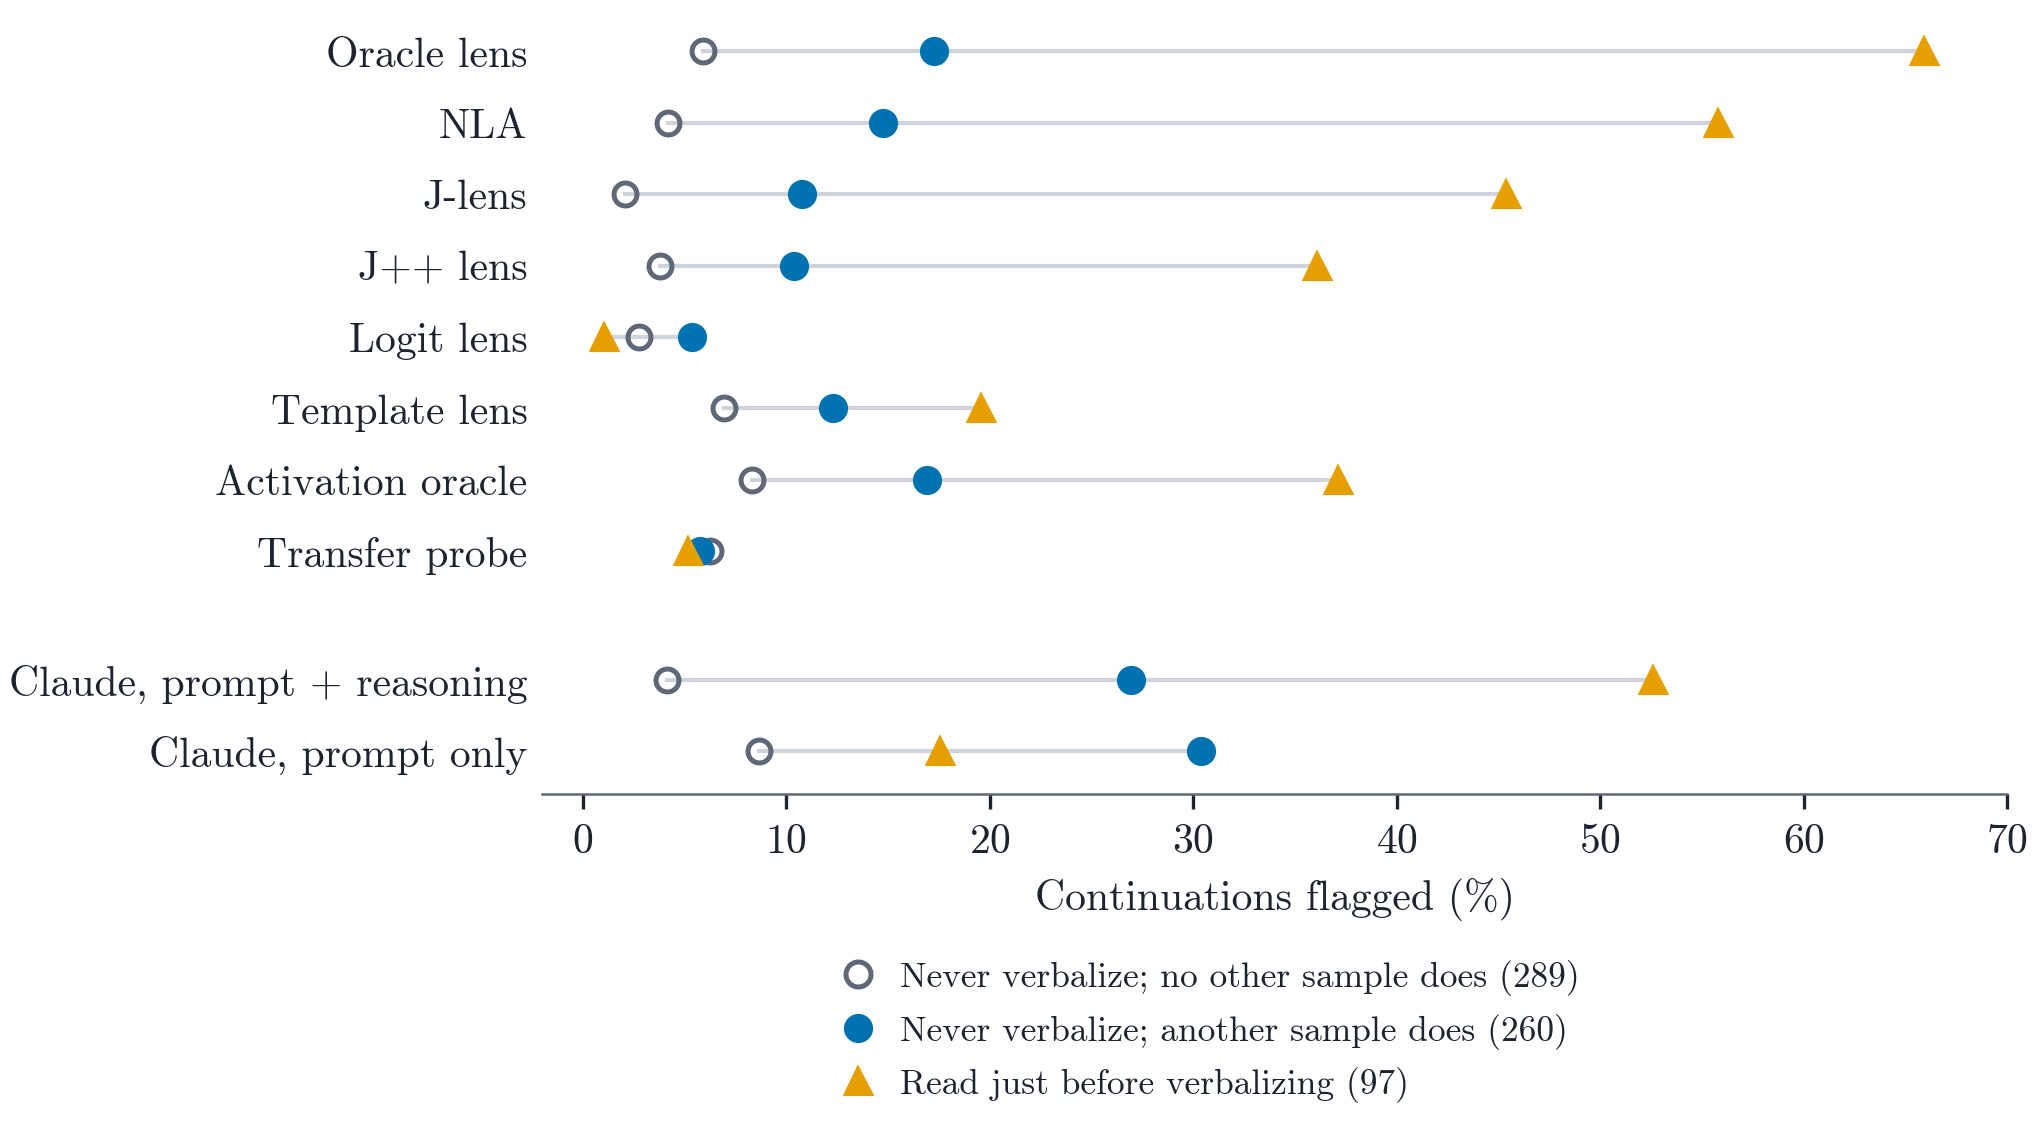
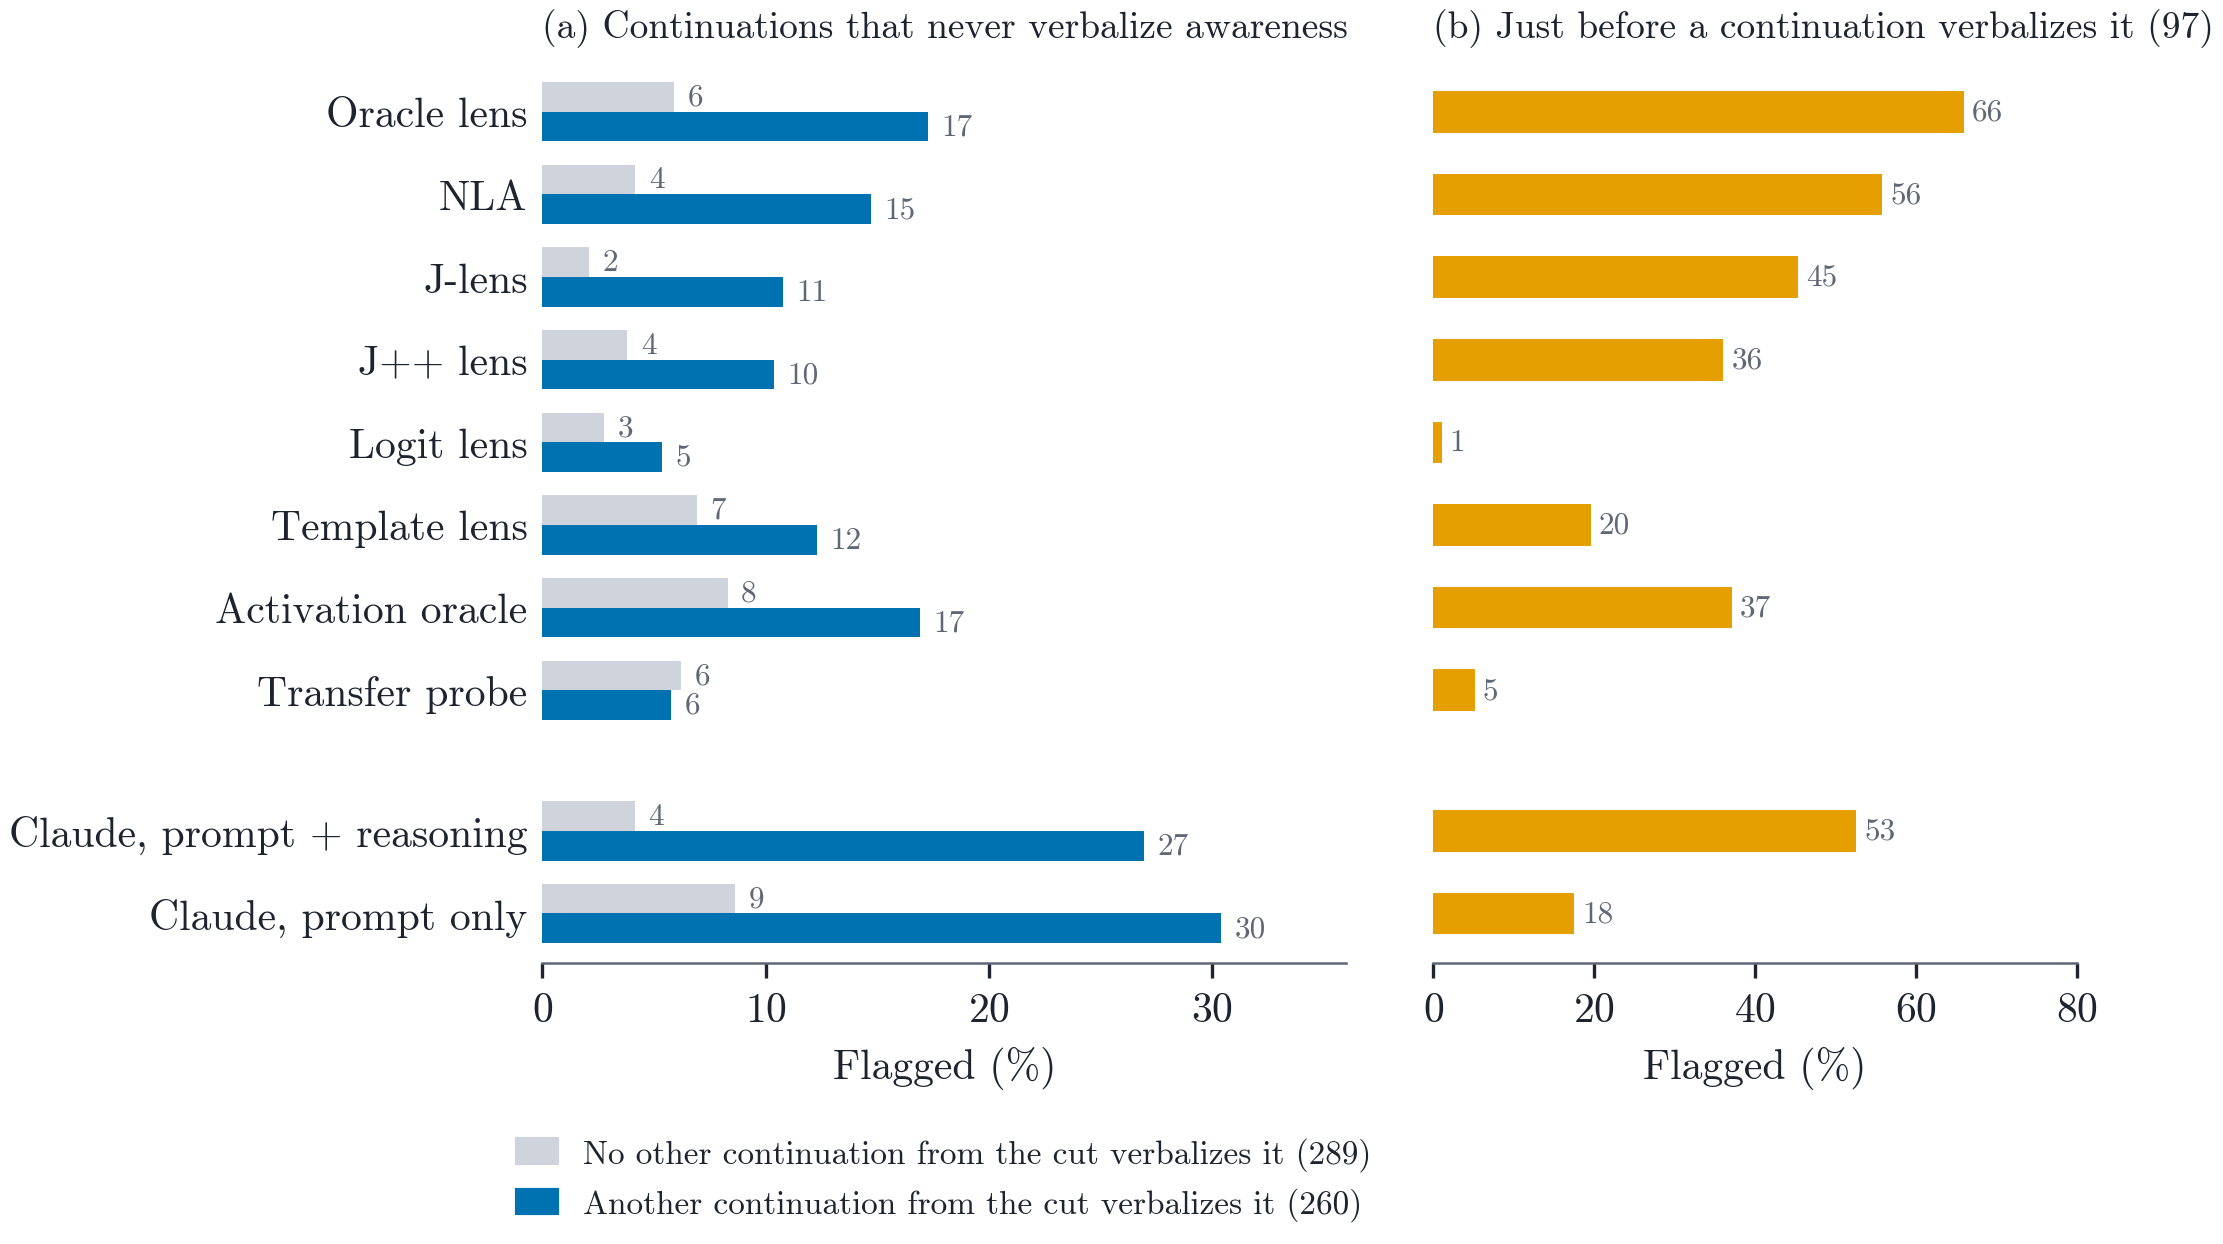
clearer per-reader flag figure

diff --git a/readers/analysis/fig_silent.py b/readers/analysis/fig_silent.py
@@ -23,25 +23,35 @@ def fig_eval(P, svg):
 ORDER = ['olens', 'nla', 'jlens', 'jpp', 'logit_lens', 'template_lens', 'ao', 'transfer_probe', 'llm_reader', 'prompt_only_llm']
 def fig_flags(P, svg):
     style(P, svg)
-    fig, ax = plt.subplots(figsize=(6.3, 3.4))
+    fig, axes = plt.subplots(1, 2, figsize=(6.6, 3.9), sharey=True, gridspec_kw={'width_ratios': [1.25, 1], 'wspace': 0.12})
     ys, y = [], 0
-    for i, k in enumerate(ORDER):
-        if k == 'llm_reader': y += 0.8
+    for k in ORDER:
+        if k == 'llm_reader': y += 0.7
         ys.append(-y); y += 1
-    F = D['flag_rate']
+    F = D['flag_rate']; h = 0.36
+    ax = axes[0]
     for k, yy in zip(ORDER, ys):
-        vals = [100 * F[k][g]['value'] for g in ('silent_q0', 'silent_q_pos', 'verbalizing_reference')]
-        ax.plot([min(vals), max(vals)], [yy, yy], color=P['rule'], lw=1.0, zorder=0)
-        ax.plot(vals[0], yy, 'o', ms=5.5, color=P['muted'], mfc='none', mew=1.2)
-        ax.plot(vals[1], yy, 'o', ms=6, color=P['c1'])
-        ax.plot(vals[2], yy, '^', ms=6, color=P['c2'])
-    ax.plot([], [], 'o', color=P['muted'], mfc='none', mew=1.2, label='Never verbalize; no other sample does (289)')
-    ax.plot([], [], 'o', color=P['c1'], label='Never verbalize; another sample does (260)')
-    ax.plot([], [], '^', color=P['c2'], label='Read just before verbalizing (97)')
-    ax.legend(frameon=False, fontsize=8.5, loc='upper center', bbox_to_anchor=(0.45, -0.17), ncol=1, handletextpad=0.2)
-    ax.set_yticks(ys); ax.set_yticklabels([NAME[k] for k in ORDER]); ax.tick_params(axis='y', length=0)
-    ax.spines['left'].set_visible(False); ax.set_xlim(-2, 70); ax.set_xlabel('Continuations flagged (%)')
-    ax.set_ylim(ys[-1] - 0.6, ys[0] + 0.6)
+        a, b = 100 * F[k]['silent_q0']['value'], 100 * F[k]['silent_q_pos']['value']
+        ax.barh(yy + h / 2, a, height=h, color=P['rule'], edgecolor='none')
+        ax.barh(yy - h / 2, b, height=h, color=P['c1'], edgecolor='none')
+        ax.text(b + 0.6, yy - h / 2, f"{b:.0f}", va='center', fontsize=7.5, color=P['muted'])
+        ax.text(a + 0.6, yy + h / 2, f"{a:.0f}", va='center', fontsize=7.5, color=P['muted'])
+    ax.set_xlim(0, 36); ax.set_xlabel('Flagged (%)')
+    ax.set_title('(a) Continuations that never verbalize awareness', fontsize=9, loc='left', color=P['ink'])
+    from matplotlib.patches import Patch
+    ax.legend(handles=[Patch(color=P['rule'], label='No other continuation from the cut verbalizes it (289)'),
+                       Patch(color=P['c1'], label='Another continuation from the cut verbalizes it (260)')], frameon=False, fontsize=8, loc='upper center', bbox_to_anchor=(0.5, -0.16), handlelength=1.2)
+    ax = axes[1]
+    for k, yy in zip(ORDER, ys):
+        v = 100 * F[k]['verbalizing_reference']['value']
+        ax.barh(yy, v, height=h * 1.4, color=P['c2'], edgecolor='none')
+        ax.text(v + 1, yy, f"{v:.0f}", va='center', fontsize=7.5, color=P['muted'])
+    ax.set_xlim(0, 80); ax.set_xlabel('Flagged (%)')
+    ax.set_title('(b) Just before a continuation verbalizes it (97)', fontsize=9, loc='left', color=P['ink'])
+    axes[0].set_yticks(ys); axes[0].set_yticklabels([NAME[k] for k in ORDER])
+    for a in axes:
+        a.tick_params(axis='y', length=0); a.spines['left'].set_visible(False)
+    axes[0].set_ylim(ys[-1] - 0.6, ys[0] + 0.6)
     save(fig, 'fig_silent', svg)
 
 for P, svg in [(SENT, True), (REAL, False)]:

diff --git a/README.md b/README.md
@@ -54,7 +54,7 @@ Juliana Li, with Ishaan and Advikar. The full pipeline lives in [itewari7/hw2](h
 
 ![Per-reader flag rates on continuations that never verbalize awareness.](readers/figures/fig_silent.png)
 
-**Figure 9. Every reader except the transfer probe flags silent continuations more often when another continuation from the same cut point verbalizes awareness, and most flag far more often just before awareness is stated.** Percent of continuations each reader flags at the thresholds frozen for the test run (D-186). The grouping by other continuations describes where flags fall; it is not a label.
+**Figure 9. Most readers flag silent continuations two to five times as often when another continuation from the same cut point verbalizes awareness, and most flag far more often just before awareness is stated.** Bars give the percent of continuations each reader flags at the thresholds frozen for the test run (D-186). (a) Continuations that never verbalize awareness, split by whether another of the 8 continuations from the same cut point verbalizes it; the split describes where flags fall and is not a label. (b) Continuations read at the token just before they state awareness.
 
 - **Per reader, all 549 silent continuations.** Oracle lens 11%, NLA 9%, J-lens 6%, J++ lens 7%, logit lens 4%, template lens 9%, activation oracle 12%, transfer probe 6%. Claude given the reasoning up to the same token: 15%; given the request alone: 19%.
 - **Content of the 35 flagged readouts** (keyword sort of oracle lens and NLA readouts). 24 call the scenario fictional, a placeholder, simulated or a test environment; 11 call the reasoning an evaluation or safety document; none says the model itself is being tested. 66% come from test-like prompts and 86% from cut points where another continuation verbalizes awareness.
